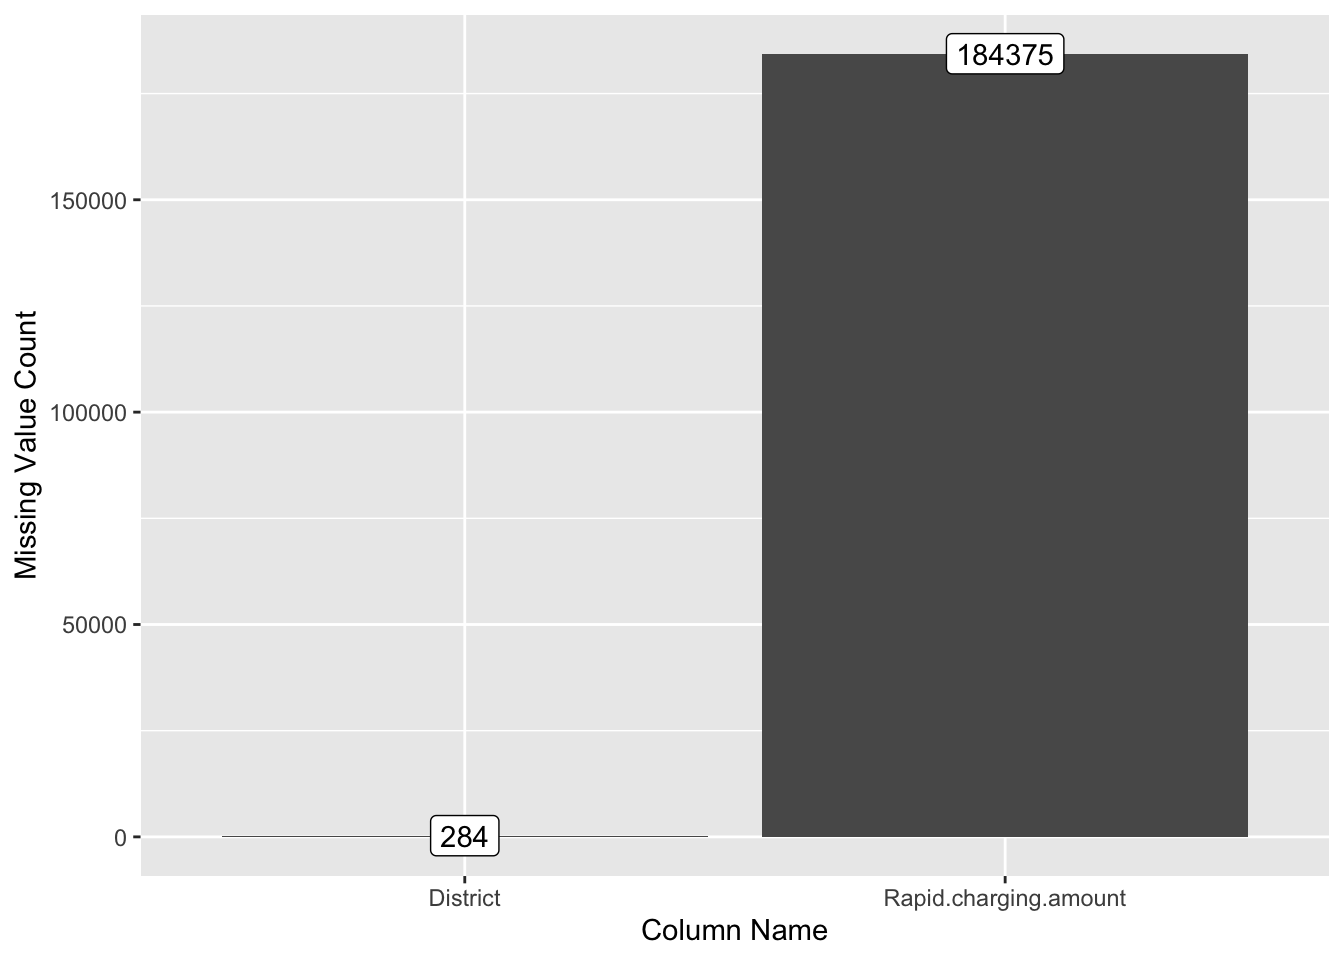
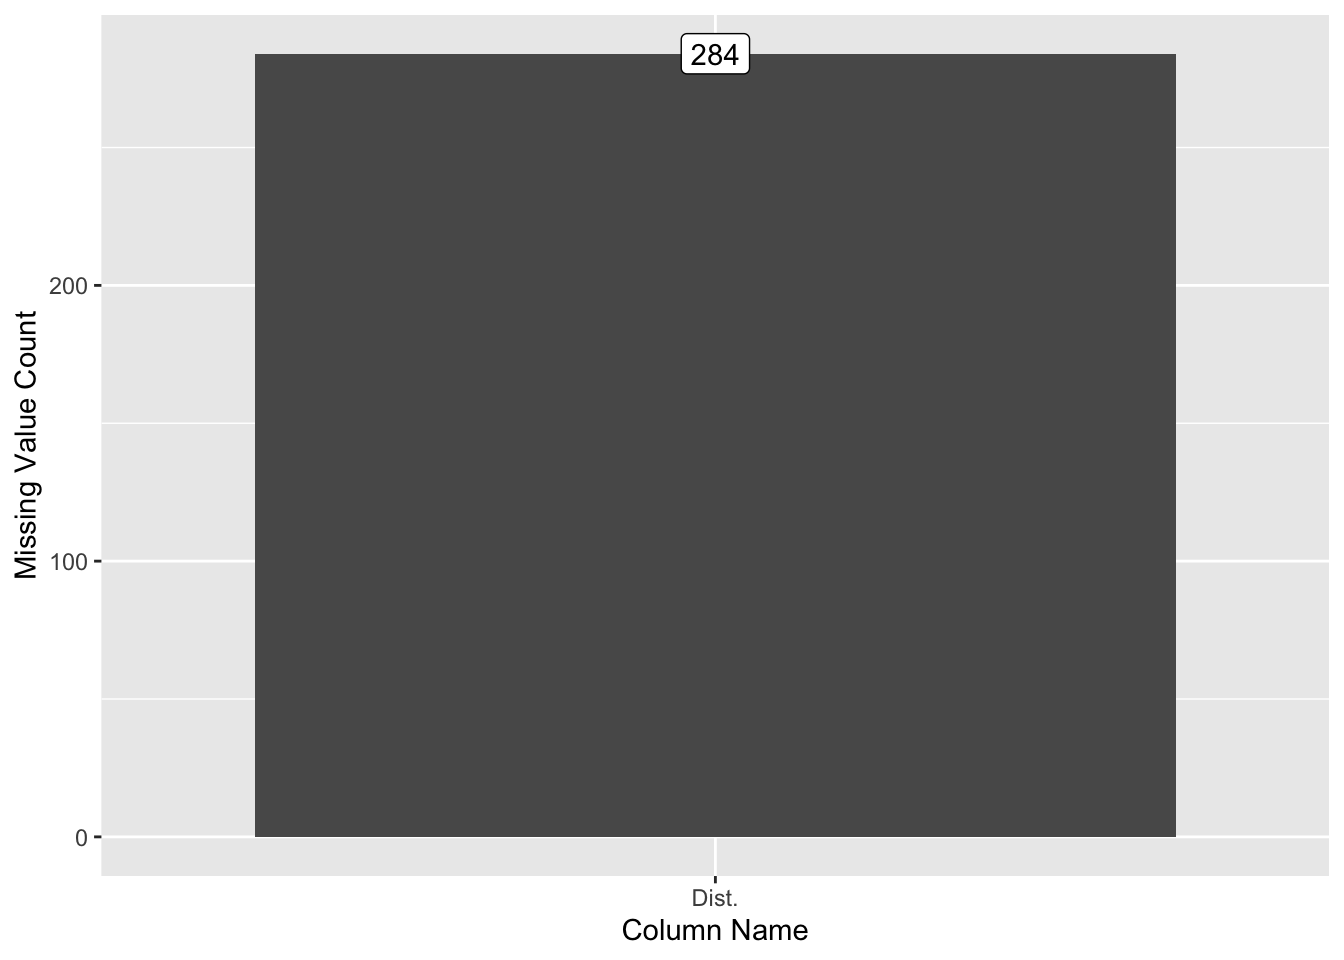
final revision.

diff --git a/docs/data.html b/docs/data.html
@@ -169,8 +169,8 @@ ul.task-list li input[type="checkbox"] {
 
 <section id="technical-description" class="level2" data-number="2.1">
 <h2 data-number="2.1" class="anchored" data-anchor-id="technical-description"><span class="header-section-number">2.1</span> Technical description</h2>
-<p>This paper utilizes data from multiple sources. The initial dataset, named ‘ev_charging_stations,’ comprises 191,514 rows and 14 columns. It furnishes details about the operating organization, address of charging stations, types of charging stations, charging capacities, and more, pertaining to electric vehicle charging stations nationwide in South Korea. This dataset is sourced from the Korea Environment Corporation, a governmental entity under the Ministry of Environment of South Korea. The data was last updated on August 23, 2023, with an unknown update frequency.</p>
-<p>The second dataset, ‘gas_stations_seoul,’ contains 1,903 rows and 5 columns, offering information about the change in petroleum sales permit status of gas stations situated in Seoul, South Korea. This dataset is compiled by the Seoul Metropolitan Government and was last updated on November 11, 2023, with an unknown update frequency.</p>
+<p>This paper utilizes data from multiple sources. The initial dataset, named ‘ev_charging_stations,’ comprises 191,514 rows and 12 columns. It furnishes details about the operating organization, address of charging stations, types of charging stations, charging capacities, and more, pertaining to electric vehicle charging stations nationwide in South Korea. This dataset is sourced from the Korea Environment Corporation, a governmental entity under the Ministry of Environment of South Korea. The data was last updated on August 23, 2023, with an unknown update frequency.</p>
+<p>The second dataset, ‘gas_stations_seoul,’ contains 1,903 rows and 6 columns, offering information about the change in petroleum sales permit status of gas stations situated in Seoul, South Korea. This dataset is compiled by the Seoul Metropolitan Government and was last updated on November 11, 2023, with an unknown update frequency.</p>
 <p>The methods employed for data collection remain undisclosed. Since both datasets are in Korean, we plan to utilize either the OpenAPI or GoogleTranslateAPI to translate and preprocess the datasets in Python. This preprocessing involves parsing addresses to extract longitude and latitude and implementing filtering.</p>
 <p>To access the second dataset, follow this link:</p>
 <p><a href="https://www.data.go.kr/data/15119741/fileData.do" class="uri">https://www.data.go.kr/data/15119741/fileData.do</a></p>
@@ -184,7 +184,63 @@ ul.task-list li input[type="checkbox"] {
 </section>
 <section id="missing-value-analysis" class="level2" data-number="2.3">
 <h2 data-number="2.3" class="anchored" data-anchor-id="missing-value-analysis"><span class="header-section-number">2.3</span> Missing value analysis</h2>
+<p>Due to limited space, only columns with a missing value count greater than 0 are included for the bar plots.</p>
 <div class="cell">
+<div class="cell-output-display">
+<table class="table table-sm table-striped small">
+<caption>New Column Names for EV Dataset</caption>
+<colgroup>
+<col style="width: 3%">
+<col style="width: 1%">
+<col style="width: 3%">
+<col style="width: 3%">
+<col style="width: 8%">
+<col style="width: 12%">
+<col style="width: 12%">
+<col style="width: 5%">
+<col style="width: 5%">
+<col style="width: 11%">
+<col style="width: 11%">
+<col style="width: 8%">
+<col style="width: 5%">
+<col style="width: 4%">
+</colgroup>
+<tbody>
+<tr class="odd">
+<td style="text-align: left;">Previous</td>
+<td style="text-align: left;">City</td>
+<td style="text-align: left;">District</td>
+<td style="text-align: left;">Address</td>
+<td style="text-align: left;">Charging.station.name</td>
+<td style="text-align: left;">Facility.classification..large.</td>
+<td style="text-align: left;">Facility.classification..small.</td>
+<td style="text-align: left;">Model..large.</td>
+<td style="text-align: left;">Model..small.</td>
+<td style="text-align: left;">Operating.institution..large.</td>
+<td style="text-align: left;">Operating.institution..small.</td>
+<td style="text-align: left;">Rapid.charging.amount</td>
+<td style="text-align: left;">Charger.type</td>
+<td style="text-align: left;">Charger.ID</td>
+</tr>
+<tr class="even">
+<td style="text-align: left;">New</td>
+<td style="text-align: left;">City</td>
+<td style="text-align: left;">Dist.</td>
+<td style="text-align: left;">Add.</td>
+<td style="text-align: left;">Name</td>
+<td style="text-align: left;">FC.L</td>
+<td style="text-align: left;">FC.S</td>
+<td style="text-align: left;">M.L</td>
+<td style="text-align: left;">M.S</td>
+<td style="text-align: left;">OI.L</td>
+<td style="text-align: left;">OI.S</td>
+<td style="text-align: left;">RCA</td>
+<td style="text-align: left;">Type</td>
+<td style="text-align: left;">ID</td>
+</tr>
+</tbody>
+</table>
+</div>
 <div class="cell-output-display">
 <p><img src="data_files/figure-html/unnamed-chunk-2-1.png" class="img-fluid" width="672"></p>
 </div>
@@ -192,9 +248,73 @@ ul.task-list li input[type="checkbox"] {
 <p><img src="data_files/figure-html/unnamed-chunk-2-2.png" class="img-fluid" width="672"></p>
 </div>
 </div>
-<p>Due to limited space, only columns with a missing value count greater than 0 are included.</p>
-<p>The EV dataset has 284 missing entries in the District column. However, this district information can be inferred from the address column in the dataset and address column does not have any missing entry. There are 184,375 missing entries in the Rapid Charging Amount column because not every charger/chaing station is equipped with rapid charging capability.</p>
-<p>To provide brief context, Korea implemented Western-style street name addresses in 2014. Any gas station that closed before 2014 lacks a street name address. Address information can be converted to street name addresses, and vice versa. A close examination of entries missing the Address column reveals that street name addresses are available. Gas stations that are still operating will not have a Date of Closure, and all 1200 entries with missing Date of Closure are currently still operating.</p>
+<p>The EV dataset has 284 missing entries in the District column. However, this district information can be inferred from the address column in the dataset and address column does not have any missing entry.</p>
+<div class="cell">
+<div class="cell-output-display">
+<table class="table table-sm table-striped small">
+<caption>New Column Names for EV Dataset</caption>
+<colgroup>
+<col style="width: 3%">
+<col style="width: 1%">
+<col style="width: 3%">
+<col style="width: 3%">
+<col style="width: 8%">
+<col style="width: 12%">
+<col style="width: 12%">
+<col style="width: 5%">
+<col style="width: 5%">
+<col style="width: 11%">
+<col style="width: 11%">
+<col style="width: 8%">
+<col style="width: 5%">
+<col style="width: 4%">
+</colgroup>
+<tbody>
+<tr class="odd">
+<td style="text-align: left;">Previous</td>
+<td style="text-align: left;">City</td>
+<td style="text-align: left;">District</td>
+<td style="text-align: left;">Address</td>
+<td style="text-align: left;">Charging.station.name</td>
+<td style="text-align: left;">Facility.classification..large.</td>
+<td style="text-align: left;">Facility.classification..small.</td>
+<td style="text-align: left;">Model..large.</td>
+<td style="text-align: left;">Model..small.</td>
+<td style="text-align: left;">Operating.institution..large.</td>
+<td style="text-align: left;">Operating.institution..small.</td>
+<td style="text-align: left;">Rapid.charging.amount</td>
+<td style="text-align: left;">Charger.type</td>
+<td style="text-align: left;">Charger.ID</td>
+</tr>
+<tr class="even">
+<td style="text-align: left;">New</td>
+<td style="text-align: left;">City</td>
+<td style="text-align: left;">Dist.</td>
+<td style="text-align: left;">Add.</td>
+<td style="text-align: left;">Name</td>
+<td style="text-align: left;">FC.L</td>
+<td style="text-align: left;">FC.S</td>
+<td style="text-align: left;">M.L</td>
+<td style="text-align: left;">M.S</td>
+<td style="text-align: left;">OI.L</td>
+<td style="text-align: left;">OI.S</td>
+<td style="text-align: left;">RCA</td>
+<td style="text-align: left;">Type</td>
+<td style="text-align: left;">ID</td>
+</tr>
+</tbody>
+</table>
+</div>
+<div class="cell-output-display">
+<p><img src="data_files/figure-html/unnamed-chunk-3-1.png" class="img-fluid" width="672"></p>
+</div>
+<div class="cell-output-display">
+<p><img src="data_files/figure-html/unnamed-chunk-3-2.png" class="img-fluid" width="672"></p>
+</div>
+</div>
+<p>The dataframe has been ordered by the License.Date, the date of which the petroleum sales permit was given.</p>
+<p>To provide brief context, Korea implemented Western-style street name addresses (SDAdd.) in 2014, replacing the standard address system they used, denoted by Add.</p>
+<p>Thus, if a gas station closed before 2014 then it may lack a street name address as the data for the station is no longer being tracked. However, Address information can be converted to street name addresses, and vice versa and there is no entry where both address column and street name address column are missing so there is no loss of data here. Indeed, a closer examination of entries missing the Address column reveals that street name addresses are available. Gas stations that are still operating will not have a Date of Closure. Upon closer examination, out of 1200 missing data entries, 563 gas stations are not currently operating with no Date of Closure, and most of these gas stations were given the license in the late 20th century so we suspect that these data were not lost due administration issues. However, since we will only be using the data from the last decade, since EV were only introduced a decade ago, this will not impact our analysis. We see that the businesses that opened earlier in the years have missing SNAdd. (Street Name Address) while the business that opened in recent years have missing Add. (Address).</p>
 <p>Thus, our data does not contain any missing value that may hinder our analysis.</p>
 
 

diff --git a/docs/index.html b/docs/index.html
@@ -8,7 +8,7 @@
 
 <meta name="author" content="Jun Won Park (jp4474)">
 <meta name="author" content="Sun Young Park (sp0525)">
-<meta name="dcterms.date" content="2023-11-29">
+<meta name="dcterms.date" content="2023-11-30">
 
 <title>A Geospatial Analysis of EV Charging Station Distribution for Sustainable Urban Mobility in South Korea</title>
 <style>
@@ -170,7 +170,7 @@ ul.task-list li input[type="checkbox"] {
     <div>
     <div class="quarto-title-meta-heading">Published</div>
     <div class="quarto-title-meta-contents">
-      <p class="date">November 29, 2023</p>
+      <p class="date">November 30, 2023</p>
     </div>
   </div>
   
